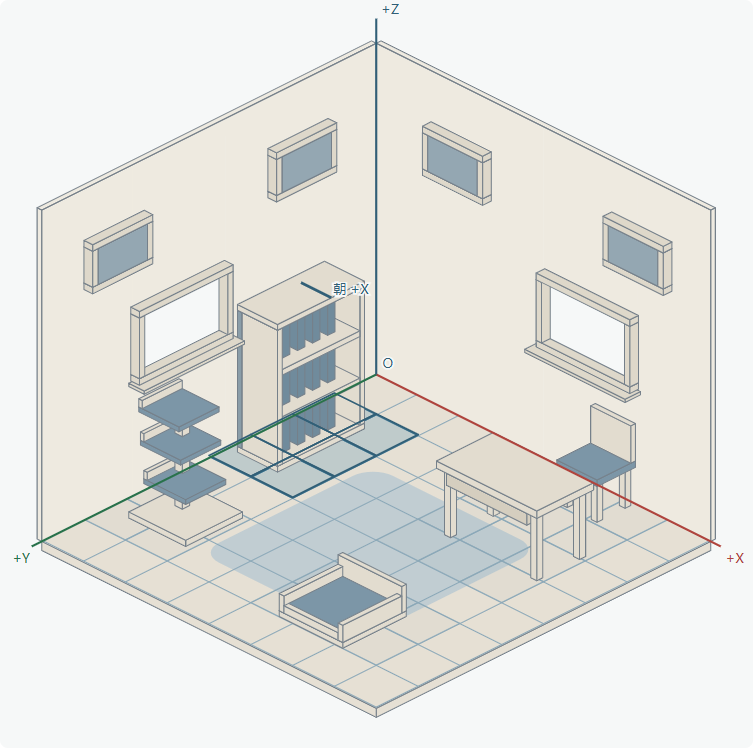
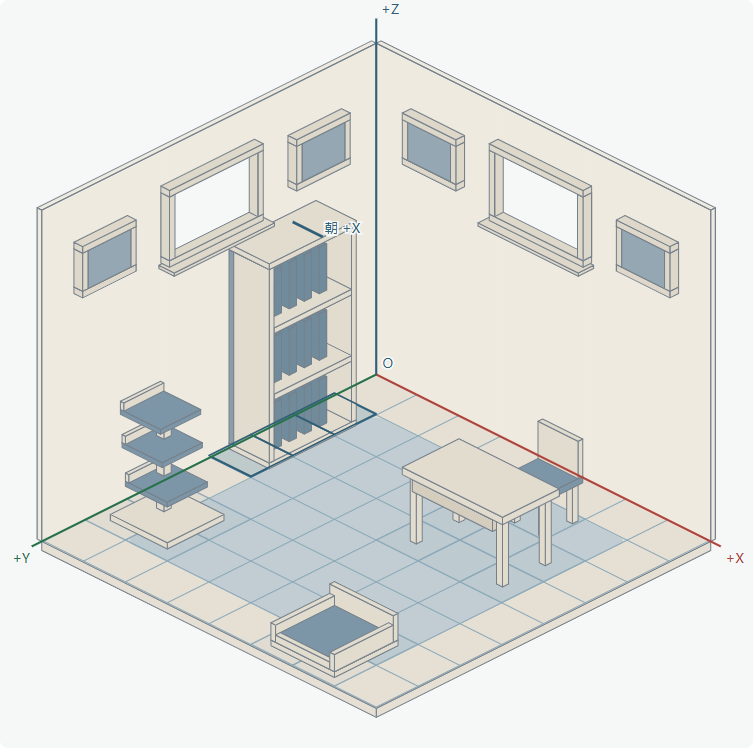
feat: center room fixtures on the selected 8x8 grid

Changed region(s): [[0.0916, 0.1537, 0.9163, 0.9225], [0.7025, 0.2152, 0.7636, 0.246]]

diff --git a/design/room-structure-2026-10-05/index.html b/design/room-structure-2026-10-05/index.html
@@ -20,12 +20,12 @@ details{margin-top:16px}summary{cursor:pointer}pre{font:13px/1.7 ui-monospace,mo
 </style>
 <main>
 <h1>房间结构 · 首轮验证</h1>
-<p>以新参考图校准方向。墙高增加 1.5 倍，地板宽度保持；方格密度、挂位和地毯位置在这个样例中对比。</p>
+<p>已选定 8×8 网格与 1.5 倍墙高。地毯覆盖中央 6×6 格，窗户居中升高；每件家具在自己的占格范围内居中。</p>
 <div class="board">
 <section>
 <h2>固定视角与家具占位</h2>
 <div class="controls">
-<label>网格 <select id="density"><option value="6">6 × 6</option><option value="8" selected>8 × 8</option><option value="10">10 × 10</option></select></label>
+<span>网格 8 × 8 · 已选定</span>
 <label>墙高 <select id="height"><option value="1.5" selected>参考图 × 1.5</option><option value="1">参考图原高</option></select></label>
 <label>样例 <select id="mode"><option value="fixtures">代表家具</option><option value="l">L 形占格</option><option value="empty">空房间</option></select></label>
 </div>
@@ -56,13 +56,13 @@ details{margin-top:16px}summary{cursor:pointer}pre{font:13px/1.7 ui-monospace,mo
 </section>
 </div>
 <section class="comparison">
-<h2>相同房间、相同家具尺寸 · 三档网格对比</h2>
-<p>这里只改变网格密度，家具的实际尺寸不随格子数量改变。浅蓝格表示同一件书柜需要预留的范围。</p>
+<h2>8×8 网格 · 家具占格与居中</h2>
+<p>浅蓝格为物品的完整占地区域。家具的水平外缘与矩形占地区域同心，切换朝向时也保持居中。</p>
 <div id="comparisons" class="compare-grid"></div>
 </section>
-<section style="margin-top:22px"><h2>候选固定位置</h2><p>左右窗位独立；先预留四处墙饰位。地毯位于地板内部中央区域，作为独立底层；这些位置供本轮审阅。</p>
-<div class="table-wrap"><table><thead><tr><th>位置</th><th>所属墙面</th><th>水平中心</th><th>底边高度 Z</th><th>宽 × 高</th></tr></thead><tbody id="slot-table"></tbody></table></div>
-<small>单位为房间边长 L=1。地毯候选范围：X 0.27…0.77，Y 0.28…0.80；不阻止家具放在其上。原高对比中，上部画位暂不显示。</small>
+<section style="margin-top:22px"><h2>调整后的固定位置</h2><p>两窗都位于各自墙面的水平中点；下沿高于四格书柜。每扇窗左右各一个画位，画位与窗户的中心等高。</p>
+<div class="table-wrap"><table><thead><tr><th>位置</th><th>所属墙面</th><th>水平中心（格）</th><th>底边高（格）</th><th>中心高（格）</th><th>宽 × 高（格）</th></tr></thead><tbody id="slot-table"></tbody></table></div>
+<small>一格 = L/8，竖直高度也沿用相同物理单位。地毯固定范围 X/Y 均为 1…7 格，即中央 6×6；家具可摆在其上。原高仅供比较，容不下升高后的窗、画时会恢复完整墙面。</small>
 </section>
 </main>
 <script type="module" src="preview.mjs"></script>

diff --git a/design/room-structure-2026-10-05/README.md b/design/room-structure-2026-10-05/README.md
@@ -1,6 +1,6 @@
 # 房间结构首轮样稿
 
-日期：2026-10-05。对应批准方案的 A1–A3，供选择房间参数。当前为独立结构预览，不是正式家具美术，也没有接入主页、库存或存档。
+日期：2026-10-05。对应批准方案的 A1–A3。用户已确认 1.5 倍墙高、8×8 网格；本次调整中央地毯、居中高窗、左右画位和家具占格居中。当前仍为独立结构预览，没有接入主页、库存或存档。
 
 ## 查看
 
@@ -19,12 +19,23 @@ python design/room-structure-2026-10-05/serve.py
 - 三张参考图分别记录采样原点和比例，共用加权拟合的地面方向。可切换原图与叠线；遮挡下的原点和地板前角明确标为推算。
 - 固定平行投影，无近大远小和相机拖动。原点在后侧墙脚；+X 朝右墙开口，+Y 朝左墙开口，+Z 向上。
 - 墙高提供原图与 1.5 倍对比，地板宽度、物件世界尺寸、地面方向不变，房间区域增高。
-- 6×6、8×8、10×10 网格对比；页面初始 8×8 只是便于查看，尚未确定正式格数。
+- 正式选定 8×8 网格；原 6/8/10 比较已改为 8×8 下的家具居中示例。
 - 书柜、书桌、椅子、猫爬架、猫窝结构实体，脚底/底座统一落在 Z=0，窗框和画框具备实体厚度。每件可切换 +X/+Y；方向切换通过实体构造完成。
 - L 形三格的两个朝向示例；缺角不占格。
-- 左右两个独立窗位，四个候选墙饰位，以及可以关闭显示的固定地毯。窗位为真实开口，暂不设置窗外景色；隐藏窗户后恢复完整墙面。
+- 左右窗位均在各自墙面的水平中点，下沿高 4.25 格；书柜高 4 格。每扇窗两侧各一个画位，画位与窗户中心同高（5 格）。窗位为真实开口，暂不设置窗外景色；隐藏窗户后恢复完整墙面。
+- 地毯固定覆盖中央 6×6 格，四周各留一格，允许家具摆在其上；可关闭显示。
 
-本轮代表家具以固定世界坐标定位，每档网格重新计算覆盖完整外缘的格子集合。后续布置阶段会改为每款预定义占格、整数格锚点、拖动吸附和确认流程，不能直接把当前示例坐标当成已完成的布置规则。
+本轮代表家具已改为整数格锚点与明确的矩形占格，水平外缘中心和占格矩形中心重合；切换朝向时旋转占格和实体后重新居中。后续布置阶段将增加拖动吸附和确认流程。L 形示例仍严格只占三个格子。
+
+| 物件 | +X/+Y 默认方向 | 默认占格 | 锚点（从 0 开始） |
+|---|---|---|---|
+| 书柜 | +X | 1×3 | (0,1) |
+| 书桌 | +Y | 3×2 | (4,2) |
+| 椅子 | +Y | 1×1 | (5,1) |
+| 猫爬架 | +X | 2×2 | (0,5) |
+| 猫窝 | +Y | 2×2 | (5,6) |
+
+占格是本轮结构物件的示例规格，不要求后续同类别采用相同格数。矩形转向后行列互换，以同一格锚点重新定位，实体尺寸不变。这里的“居中”指 X/Y 世界平面居中，不是把整张立体图的屏幕包围盒居中。
 
 ## 候选坐标参数
 
@@ -42,7 +53,7 @@ O_y = 62 + 316.981132 × 墙高倍率
 
 `calibration.json` 保存手工观测线、权重、来源尺寸和推算说明；`geometry.mjs` 使用这些数据计算上述参数，预览和测试使用同一模块。格线参考的最大方向残差约 0.17 px，三图最大约 2.33 px。采样是人工近似，残差仅验证采样线方向，不保证原画每个边缘都精确吻合。
 
-候选挂位坐标见预览表格。地毯范围 X=0.27…0.77、Y=0.28…0.80，四角圆角半径 0.06；保持在房间内部且允许家具覆盖。原墙高不足以容纳上部四个候选画位，因此原高对比暂不显示画位。
+调整后的挂位坐标见预览表格，采用格子物理边长 L/8 作为高度单位。窗下沿 4.25 格，窗高 1.5 格；画位高 1 格，与窗中心等高。地毯范围 X/Y 均为 0.125…0.875（1…7 格），四角使用半径 0.02 L 的轻微圆角。原墙高不足以容纳升高的窗画，因此原高对比暂不显示窗画，恢复完整墙面。
 
 ## 验证
 
@@ -53,12 +64,12 @@ node design/room-structure-2026-10-05/browser.test.cjs
 
 浏览器检查使用项目现有 `.tooling/browser/node_modules/playwright-core` 和隔离的 Edge 无头会话；不访问登录或用户日常浏览器资料。可通过 `ROOM_STUDY_BROWSER` 指定其他兼容浏览器路径。
 
-- 几何测试 6 项通过：参考方向残差、投影往返、增高不缩地板、L 形连通与旋转、边界、三档网格下全部 32 种家具朝向组合的互斥占格。
-- 浏览器验证 60 个网格/墙高/单件朝向状态，家具部件不超过自身水平外缘、占格无冲突；检查空房、L 形、各显示开关、原图加载、墙高切换。
+- 几何测试 8 项通过：参考方向残差、投影往返、增高不缩地板、L 形连通与旋转、边界、8×8 下全部 32 种家具朝向组合的互斥占格、矩形两朝向居中、中央 36 格地毯、窗画位置与高度关系。
+- 浏览器验证 20 个墙高/单件朝向状态，家具部件不超过自身水平外缘、占格无冲突、两方向居中；检查固定地毯参数、窗画高度、空房、L 形、显示开关、原图加载和墙高切换。
 - 390 px 手机宽度无页面横向溢出；全部图片/模块加载成功，无浏览器错误。
 
 结果保存在 `verification.json`；桌面和手机截图为 `preview-desktop.png`、`preview-mobile.png`。生产 Flutter 文件和依赖均未改动，本轮不声明已完成主页集成或生产回归。
 
 ## 下一确认点
 
-根据此样稿确认视角、墙高、6/8/10 格数、候选挂位和固定地毯范围后，进入方案阶段 B：拖动、吸附、冲突预览、确认/取消、测试库存与数量限制。正式单品的弧形与装饰随后在这个坐标系内制作。
+墙高与 8×8 网格已经确认。按用户本次要求先审阅窗画高度、中央地毯与家具居中调整；通过后进入方案阶段 B：拖动、吸附、冲突预览、确认/取消、测试库存与数量限制。正式单品的弧形与装饰随后在这个坐标系内制作。

diff --git a/docs/plans/room-redesign-2026-10-05/README.md b/docs/plans/room-redesign-2026-10-05/README.md
@@ -1,6 +1,6 @@
 # 主页房间与布置系统：设计方案和实施计划
 
-日期：2026-10-05。状态：需求基线已由用户确认；阶段 A 结构样例已实现并验证，等待确认点 A 的参数选择。
+日期：2026-10-05。状态：需求基线已由用户确认；阶段 A 已实现。用户确认墙高 1.5 倍、网格 8×8；按最新反馈调整地毯、窗画和家具居中，等待此轮样稿审阅。
 
 本轮范围：房间结构、家具摆放、墙面装饰、布置操作。主页其他内容只做容纳新房间所必需的布局适配。猫咪具体美术和动效留到后续，本文保留制作路线。
 
@@ -30,7 +30,7 @@
 |---|---|
 | 相机 | 固定，所有物体共用同一投影与尺度 |
 | 墙高 | 参考图墙高的 1.5 倍；地板显示宽度保持，增加场景区域高度 |
-| 地板 | A×A 等大方格；A 在结构样例对比后决定 |
+| 地板 | 已选定 8×8 等大方格 |
 | 占格 | 每款定义自己的连续格子集合，允许不规则形状；家具完整水平外缘落在声明范围内，可留白 |
 | 地面家具 | 不能占用相同格子，不能超出地板；允许视觉遮挡 |
 | 家具朝向 | 仅正面 +X、正面 +Y，各有对应外观 |
@@ -39,11 +39,20 @@
 | 单件类别 | 书桌、猫窝、猫爬架暂定每类最多一件，可收藏多款供替换；上限可通过配置调整 |
 | 窗户 | 左右墙各一个固定窗位，独立换款或隐藏，可同时安装 |
 | 墙饰 | 多个预设挂位，每位一件，可放装饰画或其他挂墙物品 |
-| 地毯 | 固定位置，可更换或隐藏；与地面家具分开计算，允许家具摆在地毯上 |
+| 地毯 | 固定覆盖中央 6×6 格，四周留一格；可更换或隐藏；与地面家具分开计算，允许家具摆在地毯上 |
 | 遮挡 | 不设置窗户、墙饰或家具的防遮挡禁放区；高家具可以挡住其他物品 |
 | 猫咪 | 后续由系统安排在已布置场景中随机出现，固定外观方向，简单原地动作；玩家不摆放或旋转猫 |
 
 以下交互细节与技术实现是本计划的建议；首轮结构稿负责把尚未确定的数值转为可审阅结果。
+
+### 本轮样稿修订
+
+- 1.5 倍墙高和 8×8 网格已确认，投影与地板显示宽度保持。
+- 窗户在各自墙面的水平中点；以书柜高四格为基准，本轮把窗户下沿设在 4.25 格，窗高 1.5 格。
+- 两堵墙每扇窗左右各一个画位，画位与窗户中心等高（5 格）；保持实际作品画幅的规则不变。
+- 地毯固定覆盖中央 6×6 格，即 X/Y 均从第 1 格边界到第 7 格边界。
+- 矩形占格物品的完整水平外缘在占格矩形中居中；两种朝向都重算中心位置。示例书柜 1×3、桌子 3×2、椅子 1×1、猫爬架/猫窝 2×2，每款后续仍可独立规定占格。
+- 竖直“一格”指物理高度 L/8，不直接拿屏幕上压缩后的菱形高度作为 Z 单位。
 
 ## 2. 坐标与房间构造
 
@@ -280,4 +289,6 @@ Rive 提供骨骼和动画编辑能力及 Flutter 运行支持，可作为以后
 
 阶段 A 已交付[独立结构样稿](../../../design/room-structure-2026-10-05/README.md)，包含三图叠线、原高/1.5 倍墙高、6/8/10 格对比、五类实体占位、两个朝向、L 形占格、两个独立窗位、四个候选挂位和固定地毯。
 
-几何测试 6 项、浏览器 60 个状态及 390 px 手机检查通过。三档网格下的全部 32 种家具朝向组合已验证互斥占格。当前仅为结构与参数选择样稿；阶段 B/C 的拖动、库存、存档和主页集成尚未实施，运行中的 Flutter 房间代码未改动。
+首轮比较验证完成后，用户选定 8×8 网格与 1.5 倍墙高。最新修订采用中央 6×6 地毯、高于四格书柜的居中窗位、左右同中心高度画位，以及各家具在矩形占格区域居中。
+
+最新几何测试 8 项、浏览器 20 个状态及 390 px 手机检查通过。8×8 下全部 32 种家具朝向组合已验证互斥占格与外缘覆盖。当前仍为结构样稿；阶段 B/C 的拖动、库存、存档和主页集成尚未实施。
